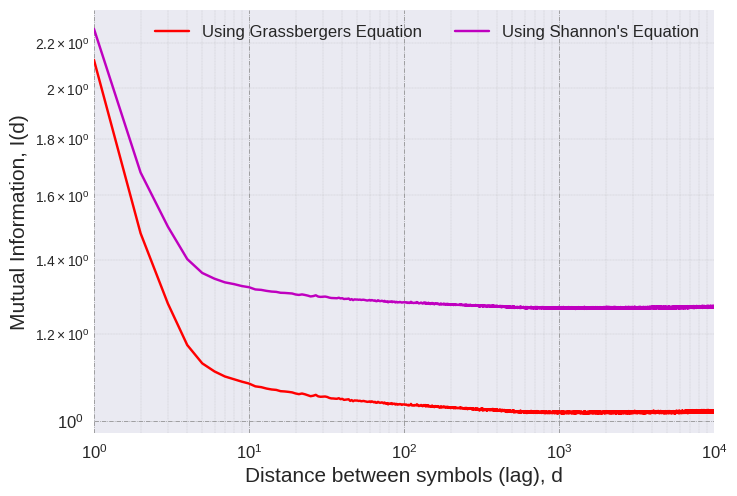
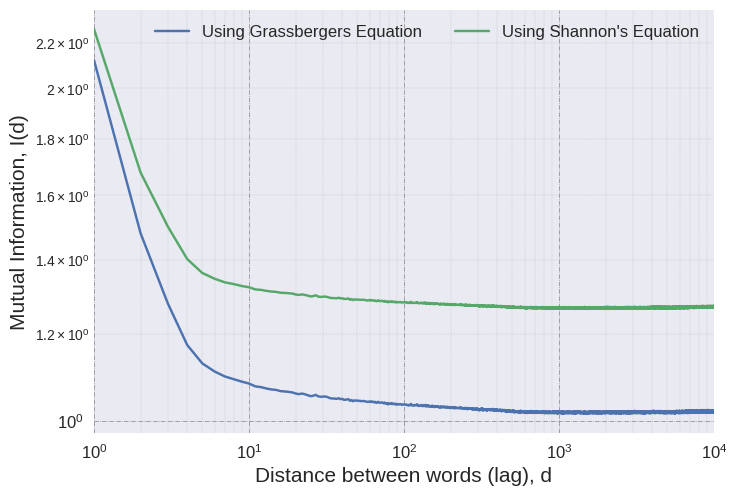
Up

diff --git a/paper_related/mnist/plot_mi.py b/paper_related/mnist/plot_mi.py
@@ -51,8 +51,8 @@ for filename in filenames:
 
 with plt.style.context(('seaborn')):
 
-    plt.loglog(np.arange(1,len(all_mi[0])+1), all_mi[0], "r-", label="Using Grassbergers Equation")
-    plt.loglog(np.arange(1,len(all_mi[1])+1), all_mi[1], 'm-', label="Using Shannon's Equation")
+    plt.loglog(np.arange(1,len(all_mi[0])+1), all_mi[0], label="Using Grassbergers Equation")
+    plt.loglog(np.arange(1,len(all_mi[1])+1), all_mi[1], label="Using Shannon's Equation")
 
     plt.tick_params(labelsize='large', width=5)
     plt.grid(True)
@@ -63,7 +63,7 @@ with plt.style.context(('seaborn')):
     # ax.set_ylim(0.56, 3.2)
     print(ax.get_xlim())
     print(ax.get_ylim())
-    ax.set_xlabel('Distance between symbols (lag), d', fontsize=15)
+    ax.set_xlabel('Distance between pixels (lag), d', fontsize=15)
     ax.set_ylabel('Mutual Information, I(d)', fontsize=15)
     lgd = ax.legend(loc='upper right', shadow=True, fancybox=True, ncol=3, numpoints=1, prop={'size': 12})
     plt.savefig('mi_intro', bbox_extra_artists=(lgd,), bbox_inches='tight')

diff --git a/paper_related/plot_mi.py b/paper_related/plot_mi.py
@@ -51,8 +51,8 @@ for filename in filenames:
 
 with plt.style.context(('seaborn')):
 
-    plt.loglog(np.arange(1,len(all_mi[0])+1), all_mi[0], "r-", label="Using Grassbergers Equation")
-    plt.loglog(np.arange(1,len(all_mi[1])+1), all_mi[1], 'm-', label="Using Shannon's Equation")
+    plt.loglog(np.arange(1,len(all_mi[0])+1), all_mi[0], label="Using Grassbergers Equation")
+    plt.loglog(np.arange(1,len(all_mi[1])+1), all_mi[1], label="Using Shannon's Equation")
 
     plt.tick_params(labelsize='large', width=5)
     plt.grid(True)
@@ -63,7 +63,7 @@ with plt.style.context(('seaborn')):
     # ax.set_ylim(0.56, 3.2)
     print(ax.get_xlim())
     print(ax.get_ylim())
-    ax.set_xlabel('Distance between symbols (lag), d', fontsize=15)
+    ax.set_xlabel('Distance between words (lag), d', fontsize=15)
     ax.set_ylabel('Mutual Information, I(d)', fontsize=15)
     lgd = ax.legend(loc='upper right', shadow=True, fancybox=True, ncol=3, numpoints=1, prop={'size': 12})
     plt.savefig('mi_intro', bbox_extra_artists=(lgd,), bbox_inches='tight')
